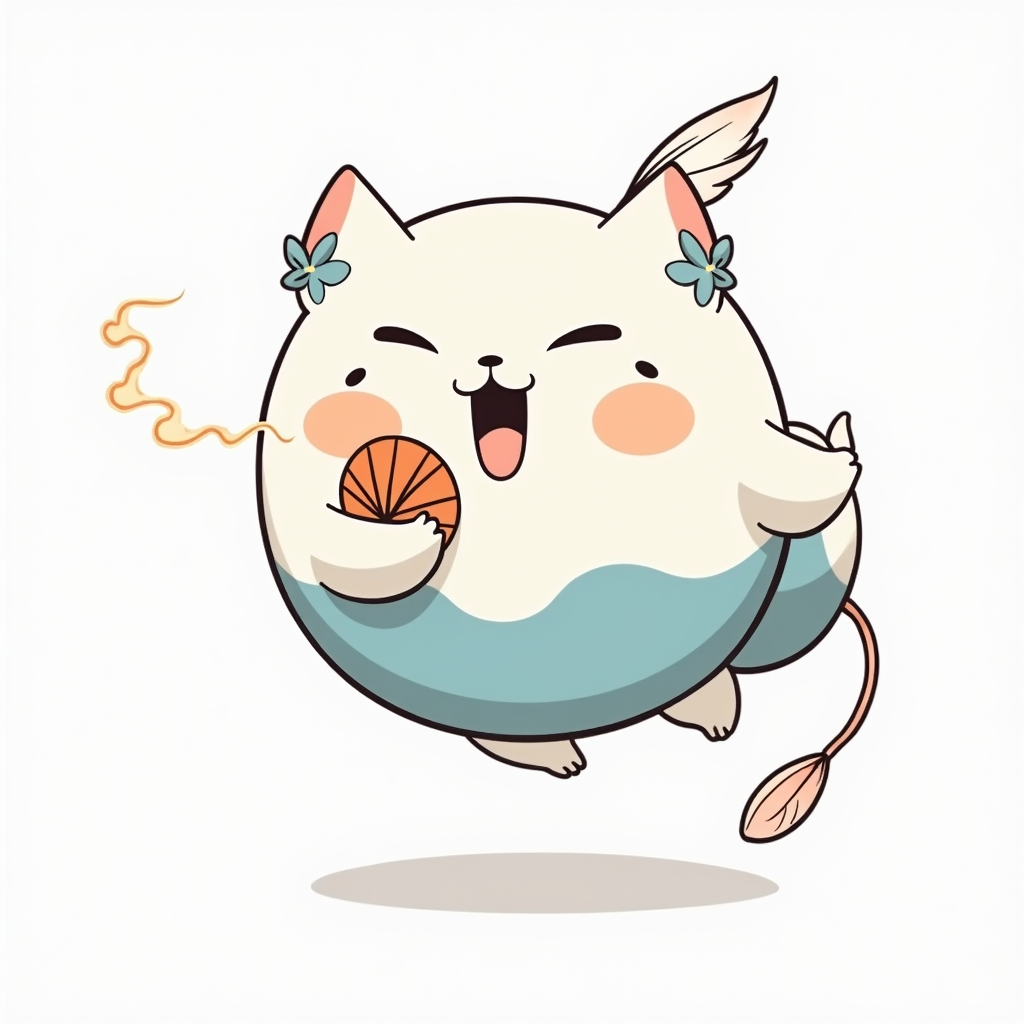
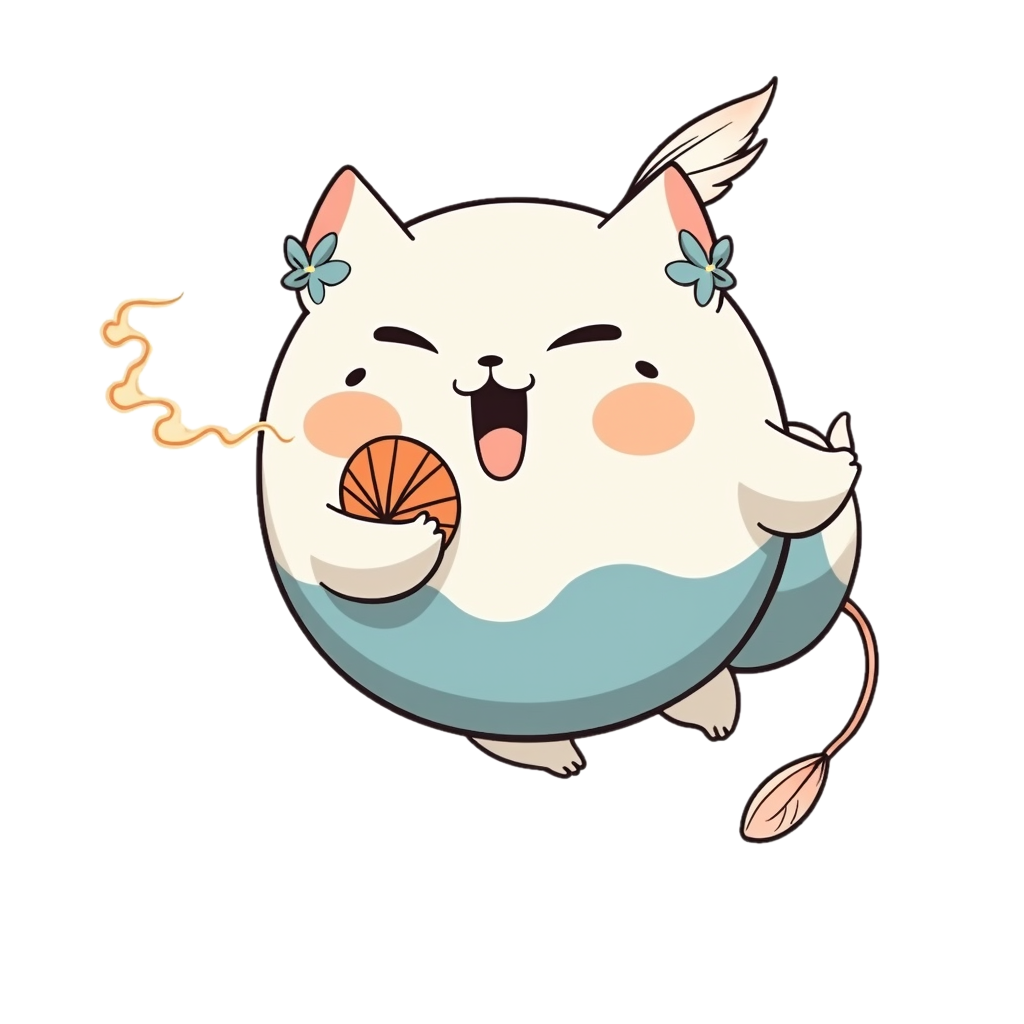
forge: transparent-background yokai portraits
All five bundled yokai portraits shipped as opaque RGB PNGs with a white
canvas and a soft drop-shadow ellipse baked in. Composited onto any
non-white UI surface they showed a visible white box plus a grey halo.

Re-export them as RGBA with both the canvas and the drop-shadow removed,
and add `tools/yokai-forge/scripts/remove_portrait_background.py` so the
same transform can be re-run after future forge passes.

The script runs two seeded flood fills over the RGB image:

- Pass 1 starts from the four corners and advances across near-white
  pixels (`min(R,G,B) >= 240`), erasing the canvas while leaving
  interior whites (bellies on short_a/r/sh/th, the white cat body on f)
  opaque because they are walled off by character line-art.
- Pass 2 expands the background mask through neutral-grey pixels
  (`135 <= min(R,G,B) <= 248`, `max - min <= 22`), which captures the
  soft drop-shadow ellipses. The upper bound overlaps the white
  threshold so the gradient rim where the shadow fades into the canvas
  is bridged. The saturation constraint keeps warm-cream bellies and
  the character's own shading out of the mask.

A 1px Gaussian feather is applied to the final alpha to avoid aliased
halos when the portrait is composited onto colored backgrounds.

diff --git a/tools/yokai-forge/scripts/remove_portrait_background.py b/tools/yokai-forge/scripts/remove_portrait_background.py
@@ -1,0 +1,139 @@
+#!/usr/bin/env python3
+"""Convert bundled yokai portrait PNGs from opaque-white backgrounds to transparent.
+
+The rendered portraits ship as 1024x1024 8-bit RGB PNGs with a pure-white
+canvas. A naive "white -> alpha 0" swap would also erase internal white
+regions (bellies, cat faces, highlights), so this script flood-fills from
+the four corners across near-white pixels only, leaving interior whites
+opaque. The alpha edge is feathered by one pixel to avoid aliased halos
+when the portrait is composited onto colored backgrounds in MoraUI.
+
+Usage:
+    python scripts/remove_portrait_background.py \
+        ../../Packages/MoraCore/Sources/MoraCore/Resources/Yokai
+
+By default the script rewrites each `*/portrait.png` in-place as RGBA.
+Pass `--output-root <dir>` to write transparent copies to a mirrored tree
+(useful for eyeballing the alpha mask before committing the overwrite).
+"""
+from __future__ import annotations
+
+import argparse
+import sys
+from collections import deque
+from pathlib import Path
+
+import numpy as np
+from PIL import Image, ImageFilter
+
+WHITE_THRESHOLD = 240  # pixels where min(R,G,B) >= this are treated as background
+SHADOW_MIN = 135  # lower bound of neutral-grey shadow pixels (min RGB channel)
+SHADOW_MAX = 248  # overlaps WHITE_THRESHOLD so the soft gradient rim is bridged
+SHADOW_SAT_SPREAD = 22  # max(R,G,B) - min(R,G,B); small => near-neutral grey
+FEATHER_RADIUS = 1  # pixels; smooth the alpha mask to avoid jaggies
+
+
+def _flood_fill(eligible: np.ndarray, seed_mask: np.ndarray) -> np.ndarray:
+    """4-connected flood fill restricted to `eligible`, seeded from `seed_mask`."""
+    h, w = eligible.shape
+    visited = seed_mask & eligible
+    queue: deque[tuple[int, int]] = deque(
+        (int(y), int(x)) for y, x in zip(*np.where(visited))
+    )
+    while queue:
+        y, x = queue.popleft()
+        for dy, dx in ((-1, 0), (1, 0), (0, -1), (0, 1)):
+            ny, nx = y + dy, x + dx
+            if 0 <= ny < h and 0 <= nx < w and not visited[ny, nx] and eligible[ny, nx]:
+                visited[ny, nx] = True
+                queue.append((ny, nx))
+    return visited
+
+
+def _build_background_mask(rgb: np.ndarray) -> np.ndarray:
+    """Return a boolean mask (H, W) where True = background.
+
+    Pass 1 — flood fill from the four corners across near-white pixels. This
+    removes the rendered canvas while leaving interior whites (bellies, the
+    cat's body) intact.
+
+    Pass 2 — expand the mask through neutral-grey pixels adjacent to the
+    already-transparent region. This captures the soft drop-shadow ellipses
+    under some characters without touching warm-cream bellies or the white
+    cat body (those are either lighter than SHADOW_MAX or only reachable by
+    crossing character edges).
+    """
+    h, w, _ = rgb.shape
+    rgb_min = rgb.min(axis=2)
+    rgb_max = rgb.max(axis=2)
+
+    near_white = rgb_min >= WHITE_THRESHOLD
+    corner_seeds = np.zeros((h, w), dtype=bool)
+    corner_seeds[0, 0] = corner_seeds[0, -1] = True
+    corner_seeds[-1, 0] = corner_seeds[-1, -1] = True
+    background = _flood_fill(near_white, corner_seeds)
+
+    shadow_like = (
+        (rgb_min >= SHADOW_MIN)
+        & (rgb_min <= SHADOW_MAX)
+        & ((rgb_max - rgb_min) <= SHADOW_SAT_SPREAD)
+    )
+    # Seed the shadow pass with background pixels that already touch a
+    # shadow-like neighbor. Using the full background as seed is fine: the
+    # flood only advances through `shadow_like`, so unrelated neutral-grey
+    # regions inside the character stay untouched unless reachable.
+    eligible = shadow_like | background
+    background = _flood_fill(eligible, background)
+    return background
+
+
+def _process(portrait_path: Path, output_path: Path) -> None:
+    with Image.open(portrait_path) as img:
+        rgb = np.asarray(img.convert("RGB"))
+    background = _build_background_mask(rgb)
+    alpha = np.where(background, 0, 255).astype(np.uint8)
+    alpha_img = Image.fromarray(alpha, mode="L")
+    if FEATHER_RADIUS > 0:
+        alpha_img = alpha_img.filter(ImageFilter.GaussianBlur(radius=FEATHER_RADIUS))
+    rgba = Image.fromarray(rgb, mode="RGB").convert("RGBA")
+    rgba.putalpha(alpha_img)
+    output_path.parent.mkdir(parents=True, exist_ok=True)
+    rgba.save(output_path, format="PNG", optimize=True)
+
+
+def main(argv: list[str]) -> int:
+    parser = argparse.ArgumentParser(description=__doc__)
+    parser.add_argument(
+        "yokai_root",
+        type=Path,
+        help="Directory containing <slug>/portrait.png subdirectories.",
+    )
+    parser.add_argument(
+        "--output-root",
+        type=Path,
+        default=None,
+        help=(
+            "Optional output directory. When set, transparent portraits are "
+            "written to <output-root>/<slug>/portrait.png instead of "
+            "overwriting the input files."
+        ),
+    )
+    args = parser.parse_args(argv)
+
+    portraits = sorted(args.yokai_root.glob("*/portrait.png"))
+    if not portraits:
+        print(f"no portraits found under {args.yokai_root}", file=sys.stderr)
+        return 1
+
+    for src in portraits:
+        if args.output_root is None:
+            dst = src
+        else:
+            dst = args.output_root / src.parent.name / src.name
+        _process(src, dst)
+        print(f"transparent: {dst}")
+    return 0
+
+
+if __name__ == "__main__":
+    raise SystemExit(main(sys.argv[1:]))
